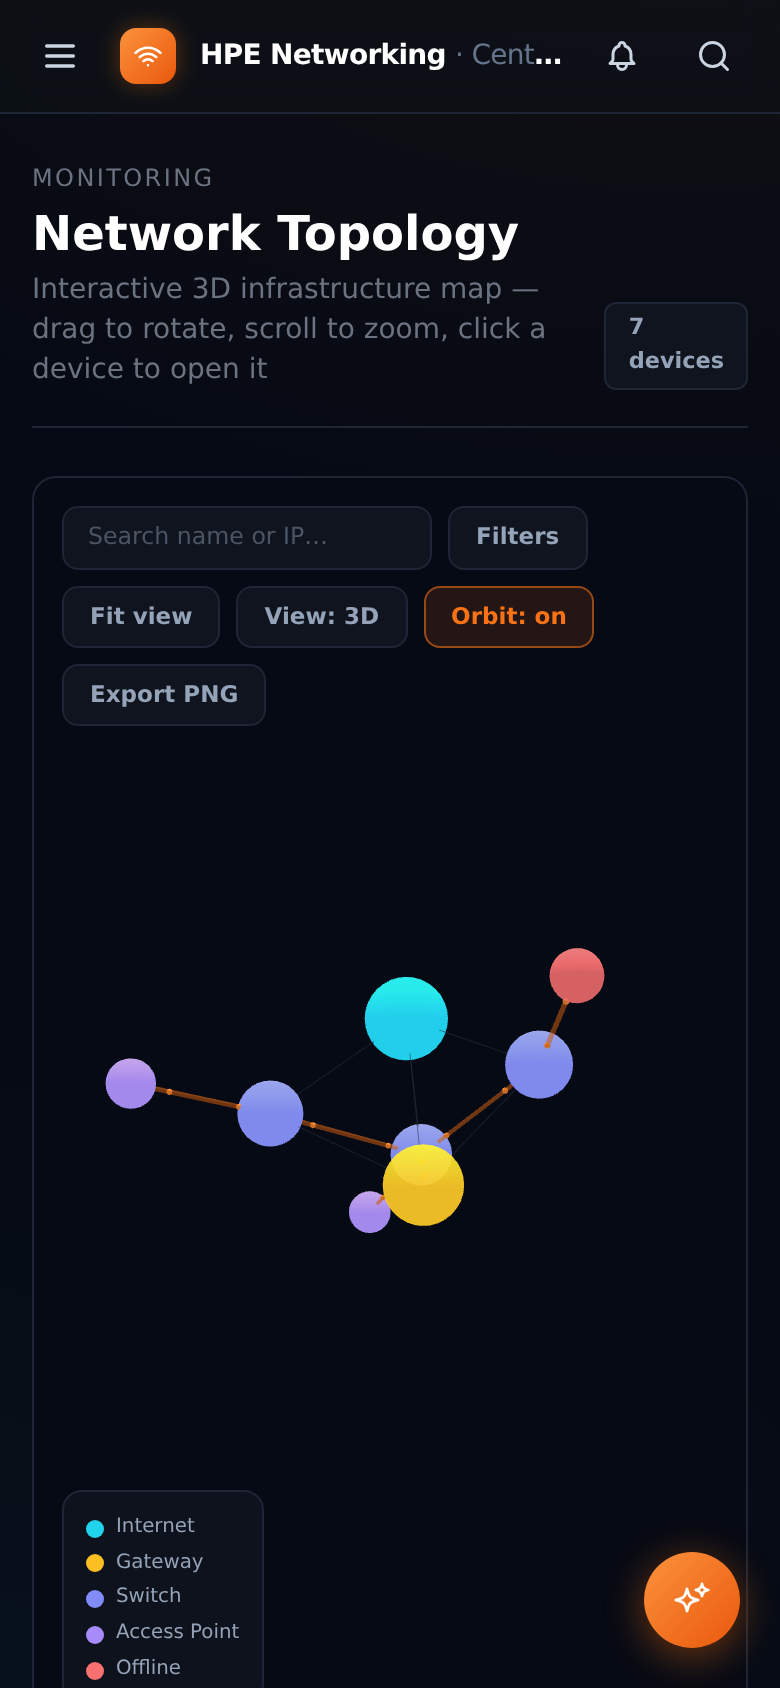
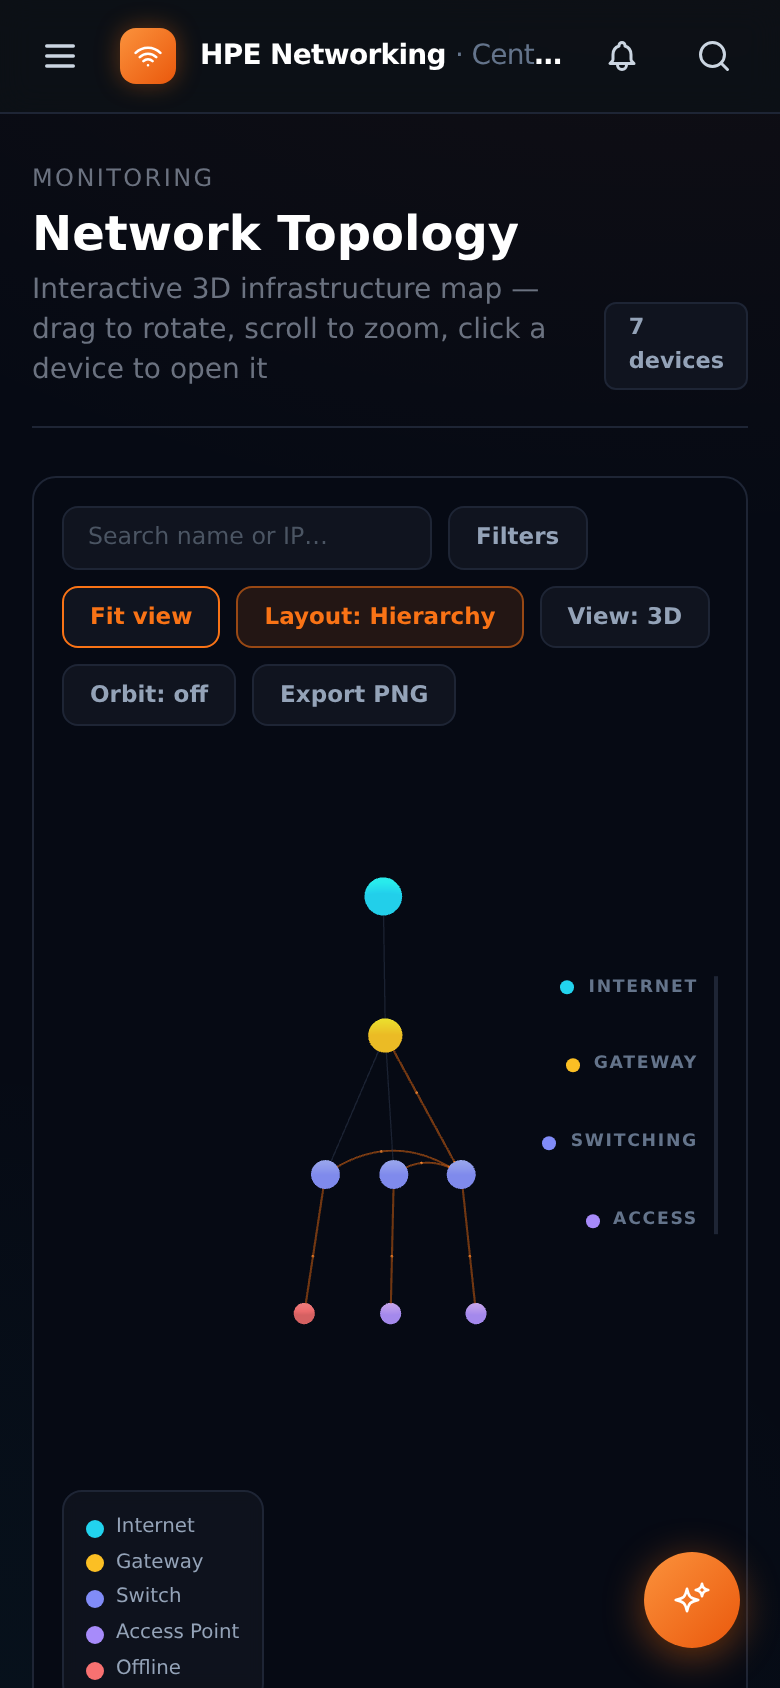
Hierarchical topology layout as default
- Tiered layout: internet / gateway / switching / access layers
  with barycenter ordering so links run vertically under parents
- Layout toggle (Hierarchy / Free 3D) persisted in localStorage;
  works with 2D mode, filters, focus, search, export
- Same-tier trunk links arc over siblings; tier rail labels;
  elevated front camera with gentle sway
- Refresh topology screenshots

diff --git a/app/templates/topology.html b/app/templates/topology.html
@@ -55,6 +55,11 @@
     .topo-tip-dot { width:7px; height:7px; border-radius:50%; display:inline-block; }
     @keyframes topo-spin { to { transform:rotate(360deg); } }
     .topo-spinner { width:34px; height:34px; border-radius:50%; border:3px solid #1e2535; border-top-color:#f97316; animation:topo-spin .8s linear infinite; }
+    /* Tier axis strip (hierarchy layout): legend-like vertical rail on the
+       left edge listing the network tiers top-to-bottom. */
+    #topo-tieraxis { right:14px; top:50%; transform:translateY(-50%); display:none; flex-direction:column; align-items:flex-end; gap:38px; border-right:2px solid #1e2535; padding-right:10px; pointer-events:none; z-index:15; }
+    .topo-tier-label { display:flex; align-items:center; gap:7px; font-size:.6rem; font-weight:700; letter-spacing:.14em; text-transform:uppercase; color:#64748b; white-space:nowrap; }
+    .topo-tier-label .topo-dot { width:7px; height:7px; }
     /* Small screens: the absolute overlays collide on a narrow canvas —
        give the toolbar the full width, drop the duplicate stats strip and
        the mouse-centric hint, and slim the legend down. Visual only. */
@@ -65,6 +70,8 @@
         .topo-legend { padding:8px 11px !important; }
         .topo-legend .topo-legend-row { font-size:.62rem; gap:6px; margin-top:3px; }
         .topo-legend-speeds { display:none !important; }
+        #topo-tieraxis { gap:26px; padding-right:8px; }
+        .topo-tier-label { font-size:.54rem; letter-spacing:.1em; }
     }
 </style>
 
@@ -79,6 +86,7 @@
         </div>
         <button id="btn-filters" class="topo-btn" type="button" aria-expanded="false" aria-controls="topo-filters" aria-label="Toggle filters panel">Filters</button>
         <button id="btn-fit" class="topo-btn" type="button">Fit view</button>
+        <button id="btn-layout" class="topo-btn active" type="button" aria-label="Toggle between hierarchy and free 3D layout">Layout: Hierarchy</button>
         <button id="btn-dim" class="topo-btn" type="button">View: 3D</button>
         <button id="btn-orbit" class="topo-btn active" type="button">Orbit: on</button>
         <button id="btn-export" class="topo-btn" type="button" aria-label="Export topology view as PNG image">Export PNG</button>
@@ -107,8 +115,16 @@
         </div>
     </div>
 
-    <!-- Stats strip -->
-    <div class="topo-overlay topo-stats" style="top:14px;right:14px;display:flex;gap:6px;flex-wrap:wrap;justify-content:flex-end;">
+    <!-- Tier axis (hierarchy layout only; toggled from JS) -->
+    <div id="topo-tieraxis" class="topo-overlay" aria-hidden="true">
+        <div class="topo-tier-label"><span class="topo-dot" style="background:#22d3ee;"></span>Internet</div>
+        <div class="topo-tier-label"><span class="topo-dot" style="background:#fbbf24;"></span>Gateway</div>
+        <div class="topo-tier-label"><span class="topo-dot" style="background:#818cf8;"></span>Switching</div>
+        <div class="topo-tier-label"><span class="topo-dot" style="background:#a78bfa;"></span>Access</div>
+    </div>
+
+    <!-- Stats strip (bottom-right, above the hint, clear of the toolbar) -->
+    <div class="topo-overlay topo-stats" style="bottom:58px;right:14px;display:flex;gap:6px;flex-wrap:wrap;justify-content:flex-end;max-width:46%;">
         <span class="topo-chip"><span class="topo-dot" style="background:#818cf8;"></span><b id="stat-switch">0</b> switches</span>
         <span class="topo-chip"><span class="topo-dot" style="background:#a78bfa;"></span><b id="stat-ap">0</b> APs</span>
         <span class="topo-chip"><span class="topo-dot" style="background:#fbbf24;"></span><b id="stat-gateway">0</b> gateways</span>
@@ -226,6 +242,7 @@ if (typeof module !== 'undefined' && module.exports) { module.exports = { topoFi
         linkReal: '#0e7490',
         linkRealHi: '#22d3ee',
         linkVirtual: '#283042',
+        linkVirtualHier: '#3a4660',
         linkVirtualHi: '#475569',
         linkFaded: '#131a26'
     };
@@ -286,9 +303,14 @@ if (typeof module !== 'undefined' && module.exports) { module.exports = { topoFi
     gws.forEach(function (g) {
         allLinks.push({ id: '__inet_gw__' + g.id, source: '__internet__', target: g.id, virtual: true });
     });
-    sws.forEach(function (s) {
-        allLinks.push({ id: '__inet_sw__' + s.id, source: '__internet__', target: s.id, virtual: true });
-    });
+    // Switches hang off the internet hub directly only when there is no
+    // gateway to route through — otherwise those links would skip a tier
+    // and clutter the hierarchy.
+    if (!gws.length) {
+        sws.forEach(function (s) {
+            allLinks.push({ id: '__inet_sw__' + s.id, source: '__internet__', target: s.id, virtual: true });
+        });
+    }
     gws.forEach(function (g) {
         sws.forEach(function (s) {
             if (!realPairs.has(pairKey(g.id, s.id))) {
@@ -389,12 +411,16 @@ if (typeof module !== 'undefined' && module.exports) { module.exports = { topoFi
             return l.virtual ? C.linkVirtualHi : linkSpeedColor(l, true);
         }
         if (highlightLinks.has(l)) return l.virtual ? C.linkVirtualHi : linkSpeedColor(l, true);
-        return l.virtual ? C.linkVirtual : linkSpeedColor(l, false);
+        // Hierarchy mode: inferred uplinks form the visible spine of the tree.
+        if (l.virtual) return layoutMode === 'hier' ? C.linkVirtualHier : C.linkVirtual;
+        return linkSpeedColor(l, false);
     };
     var linkWidthAcc = function (l) {
         if (focusIds) return focusLinkSet.has(l) ? (l.virtual ? 0.8 : 2.4) : 0;
         if (highlightLinks.has(l)) return l.virtual ? 0.8 : 2.4;
-        return l.virtual ? 0 : 1.2;
+        // In hierarchy mode the inferred uplinks are the structural spine of
+        // the diagram, so give them a hairline body instead of a faint line.
+        return l.virtual ? (layoutMode === 'hier' ? 0.7 : 0) : 1.2;
     };
     var particlesAcc = function (l) {
         if (l.virtual) return 0;
@@ -402,11 +428,97 @@ if (typeof module !== 'undefined' && module.exports) { module.exports = { topoFi
         return highlightLinks.has(l) ? 4 : 2;
     };
 
+    // ── Hierarchical "tiered" layout (default) ─────────────────────────────
+    // Classic network-diagram view: internet on top, then gateways, then
+    // switches, then APs/unknowns. Each node's y is pinned to its tier plane
+    // (node.fy) and z is pinned to 0 (node.fz) so the scene reads like a
+    // flat diagram while the force engine spreads nodes horizontally and the
+    // 3D camera can still orbit it. "Free 3D" clears all pins.
+    var TIER_OF = { internet: 0, gateway: 1, switch: 2, ap: 3, unknown: 3 };
+    var TIER_H = 80;   // vertical spacing between tier planes
+    var SLOT_W = 60;   // horizontal slot width when seeding x positions
+    var nodeTier = function (n) {
+        var t = TIER_OF[n.group];
+        return t === undefined ? 3 : t;
+    };
+    var tierYOf = function (t) { return (1.5 - t) * TIER_H; };  // +120 … -120
+
+    var LAYOUT_KEY = 'topo-layout';
+    var layoutMode = 'hier';
+    try { if (localStorage.getItem(LAYOUT_KEY) === 'free') layoutMode = 'free'; } catch (e) { /* private mode */ }
+
+    // Pin fy/fz for every visible node and seed orderly x positions with a
+    // top-down barycenter sweep: each node is anchored at the mean x of its
+    // neighbours in higher tiers (APs land under their uplink switch,
+    // switches under their gateway), so links run mostly vertically with
+    // minimal crossings. Orphans (no uplink visible) go to the right edge.
+    function applyHierarchyPins(ns, ls) {
+        var adj = {};
+        ns.forEach(function (n) { adj[n.id] = []; });
+        ls.forEach(function (l) {
+            var s = endpointId(l.source), t = endpointId(l.target);
+            if (adj[s] && adj[t]) { adj[s].push(t); adj[t].push(s); }
+        });
+        var byId = {};
+        ns.forEach(function (n) { byId[n.id] = n; });
+        var tiers = [[], [], [], []];
+        ns.forEach(function (n) { tiers[nodeTier(n)].push(n); });
+        var byLabel = function (a, b) {
+            return String(a.label || a.id).localeCompare(String(b.label || b.id));
+        };
+        tiers.forEach(function (tn, t) {
+            if (t === 0) {
+                tn.sort(byLabel);
+            } else {
+                tn.forEach(function (n) {
+                    var sum = 0, cnt = 0;
+                    adj[n.id].forEach(function (oid) {
+                        var o = byId[oid];
+                        if (o && nodeTier(o) < t && typeof o.__hx === 'number') {
+                            sum += o.__hx; cnt++;
+                        }
+                    });
+                    n.__anchor = cnt ? sum / cnt : Infinity;
+                });
+                tn.sort(function (a, b) {
+                    // Infinity-Infinity is NaN (falsy) -> falls through to label
+                    return (a.__anchor - b.__anchor) || byLabel(a, b);
+                });
+            }
+            tn.forEach(function (n, i) {
+                n.__hx = (i - (tn.length - 1) / 2) * SLOT_W;
+            });
+        });
+        ns.forEach(function (n) {
+            var y = tierYOf(nodeTier(n));
+            n.x = n.__hx;
+            n.y = y;
+            n.z = 0;
+            n.fy = y;   // lock the tier plane
+            n.fz = 0;   // lock onto a flat diagram plane
+            delete n.fx;
+        });
+    }
+
+    function clearLayoutPins(ns) {
+        ns.forEach(function (n) {
+            delete n.fx; delete n.fy; delete n.fz;
+            delete n.__hx; delete n.__anchor;
+        });
+    }
+
+    // Seed the default layout before the engine boots.
+    if (layoutMode === 'hier') applyHierarchyPins(nodes, links);
+
     // ── Graph ──────────────────────────────────────────────────────────────
     function showFallback() {
         loadingEl.style.display = 'none';
         fallbackEl.style.display = 'flex';
     }
+    // Narrow canvases keep the wrapped toolbar overlaid on the scene; a
+    // moderate padding there keeps the top (internet) tier clear of it
+    // (zoomToFit pads both axes, so large values over-shrink the graph).
+    function fitPadding() { return el.clientWidth < 640 ? 70 : 90; }
     var booted = false;
     // Watchdog: if the engine never produces a first tick (silent boot
     // failure), drop to the fallback instead of spinning forever.
@@ -434,6 +546,15 @@ if (typeof module !== 'undefined' && module.exports) { module.exports = { topoFi
             .linkColor(linkColorAcc)
             .linkWidth(linkWidthAcc)
             .linkOpacity(0.55)
+            // In hierarchy mode, links between nodes of the same tier (e.g.
+            // switch-to-switch trunks) arc out of the row so they don't run
+            // straight through sibling nodes sitting between the endpoints.
+            .linkCurvature(function (l) {
+                if (layoutMode !== 'hier') return 0;
+                var s = l.source, t = l.target;
+                if (!s || !t || typeof s !== 'object' || typeof t !== 'object') return 0;
+                return nodeTier(s) === nodeTier(t) ? 0.35 : 0;
+            })
             .linkDirectionalParticles(particlesAcc)
             .linkDirectionalParticleWidth(1.6)
             // Particle colour and speed both track the link's negotiated
@@ -464,6 +585,38 @@ if (typeof module !== 'undefined' && module.exports) { module.exports = { topoFi
         showFallback();
         return;
     }
+
+    // Same-tier spacing force (hierarchy mode only). The vendored bundle
+    // doesn't export d3.forceCollide, so register a tiny custom force that
+    // nudges same-tier neighbours apart along x whenever a reheat (filter,
+    // 2D/3D switch, layout toggle) packs a row too tightly.
+    var ROW_GAP = 55;
+    function tierSpacingForce() {
+        var ns = [];
+        function force(alpha) {
+            if (layoutMode !== 'hier') return;
+            var rows = {};
+            ns.forEach(function (n) {
+                var t = nodeTier(n);
+                (rows[t] = rows[t] || []).push(n);
+            });
+            Object.keys(rows).forEach(function (k) {
+                var row = rows[k].sort(function (a, b) { return a.x - b.x; });
+                for (var i = 1; i < row.length; i++) {
+                    var a = row[i - 1], b = row[i];
+                    var overlap = ROW_GAP - (b.x - a.x);
+                    if (overlap > 0) {
+                        var push = overlap * 0.5 * alpha;
+                        a.vx = (a.vx || 0) - push;
+                        b.vx = (b.vx || 0) + push;
+                    }
+                }
+            });
+        }
+        force.initialize = function (initNodes) { ns = initNodes; };
+        return force;
+    }
+    try { Graph.d3Force('tierSpacing', tierSpacingForce()); } catch (e) { /* spacing is cosmetic */ }
 
     // Glowing-sphere effect: 3d-force-graph builds MeshLambertMaterial
     // spheres for nodes — drive their emissive channel from the node color
@@ -534,7 +687,12 @@ if (typeof module !== 'undefined' && module.exports) { module.exports = { topoFi
     Graph.onEngineStop(function () {
         if (fitted) return;
         fitted = true;
-        Graph.zoomToFit(800, 90);
+        if (layoutMode === 'hier') {
+            // Slightly elevated front view so the tier planes read as layers
+            // (zoomToFit then keeps this direction and only fixes distance).
+            Graph.cameraPosition({ x: 0, y: TIER_H * 2.2, z: 620 }, { x: 0, y: 0, z: 0 }, 0);
+        }
+        Graph.zoomToFit(800, fitPadding());
         setTimeout(startOrbit, 1400);
     });
 
@@ -548,8 +706,15 @@ if (typeof module !== 'undefined' && module.exports) { module.exports = { topoFi
         var angle = Math.atan2(p.x, p.z);
         var dist = Math.max(Math.hypot(p.x, p.z), 200);
         var y = p.y;
+        var base = angle, t = 0;
         orbitTimer = setInterval(function () {
-            angle += Math.PI / 1400;
+            if (layoutMode === 'hier') {
+                // Gentle sway: the flat hierarchy plane never goes edge-on.
+                t += 0.012;
+                angle = base + Math.sin(t) * 0.45;
+            } else {
+                angle += Math.PI / 1400;
+            }
             Graph.cameraPosition({ x: dist * Math.sin(angle), y: y, z: dist * Math.cos(angle) });
         }, 40);
         orbitBtn.classList.add('active');
@@ -568,17 +733,53 @@ if (typeof module !== 'undefined' && module.exports) { module.exports = { topoFi
     // ── Toolbar: fit / 2D-3D toggle / search ───────────────────────────────
     document.getElementById('btn-fit').addEventListener('click', function () {
         stopOrbit();
-        Graph.zoomToFit(800, 90);
+        Graph.zoomToFit(800, fitPadding());
     });
 
     var dimBtn = document.getElementById('btn-dim');
     dimBtn.addEventListener('click', function () {
         is2D = !is2D;
         stopOrbit();
+        // Pins survive the dimension switch: in 2D the engine simply ignores
+        // z, so fy still produces the classic flat tree diagram.
+        if (layoutMode === 'hier') applyHierarchyPins(nodes, links);
         Graph.numDimensions(is2D ? 2 : 3);
         dimBtn.textContent = is2D ? 'View: 2D' : 'View: 3D';
         dimBtn.classList.toggle('active', is2D);
-        setTimeout(function () { Graph.zoomToFit(800, 90); }, 700);
+        setTimeout(function () { Graph.zoomToFit(800, fitPadding()); }, 700);
+    });
+
+    // ── Layout toggle: tiered hierarchy (default) vs free-floating 3D ──────
+    var layoutBtn = document.getElementById('btn-layout');
+    var tierAxis = document.getElementById('topo-tieraxis');
+    function syncLayoutUi() {
+        var hier = layoutMode === 'hier';
+        layoutBtn.textContent = hier ? 'Layout: Hierarchy' : 'Layout: Free 3D';
+        layoutBtn.classList.toggle('active', hier);
+        tierAxis.style.display = hier ? 'flex' : 'none';
+    }
+    syncLayoutUi();
+    layoutBtn.addEventListener('click', function () {
+        layoutMode = (layoutMode === 'hier') ? 'free' : 'hier';
+        try { localStorage.setItem(LAYOUT_KEY, layoutMode); } catch (e) { /* private mode */ }
+        exitFocus(true);             // layout swap moves everything anyway
+        stopOrbit();
+        if (layoutMode === 'hier') {
+            applyHierarchyPins(nodes, links);
+            // Swing back to an elevated front view so the tiers read as rows.
+            var c = Graph.cameraPosition();
+            var d = Math.max(Math.sqrt(c.x * c.x + c.y * c.y + c.z * c.z), 400);
+            Graph.cameraPosition({ x: 0, y: TIER_H * 2.2, z: d }, { x: 0, y: 0, z: 0 }, 500);
+        } else {
+            clearLayoutPins(allNodes);
+        }
+        syncLayoutUi();
+        // Same-tier links straighten/curve and virtual widths flip with mode.
+        Graph.linkCurvature(Graph.linkCurvature());
+        refresh();
+        if (typeof Graph.d3ReheatSimulation === 'function') Graph.d3ReheatSimulation();
+        if (refitTimer) clearTimeout(refitTimer);
+        refitTimer = setTimeout(function () { Graph.zoomToFit(700, fitPadding()); }, 700);
     });
 
     var searchInput = document.getElementById('topo-search');
@@ -678,6 +879,9 @@ if (typeof module !== 'undefined' && module.exports) { module.exports = { topoFi
         var res = topoFilterGraph(allNodes, allLinks, filterState);
         nodes = res.nodes;
         links = res.links;
+        // Re-pin the visible subset so the tier rows re-pack cleanly
+        // (orderings shift when parents are filtered away).
+        if (layoutMode === 'hier') applyHierarchyPins(nodes, links);
         Graph.graphData({ nodes: nodes, links: links });
         applySearch();                          // recompute matches over visible nodes
         updateCount();
@@ -685,7 +889,7 @@ if (typeof module !== 'undefined' && module.exports) { module.exports = { topoFi
         if (typeof Graph.d3ReheatSimulation === 'function') Graph.d3ReheatSimulation();
         stopOrbit();
         if (refitTimer) clearTimeout(refitTimer);
-        refitTimer = setTimeout(function () { Graph.zoomToFit(700, 90); }, 650);
+        refitTimer = setTimeout(function () { Graph.zoomToFit(700, fitPadding()); }, 650);
         refresh();
     }
 
@@ -792,7 +996,7 @@ if (typeof module !== 'undefined' && module.exports) { module.exports = { topoFi
         focusLinkSet = null;
         exitFocusBtn.style.display = 'none';
         refreshSizes();
-        if (!skipFit) Graph.zoomToFit(700, 90);
+        if (!skipFit) Graph.zoomToFit(700, fitPadding());
     }
 
     exitFocusBtn.addEventListener('click', function () { exitFocus(); });
